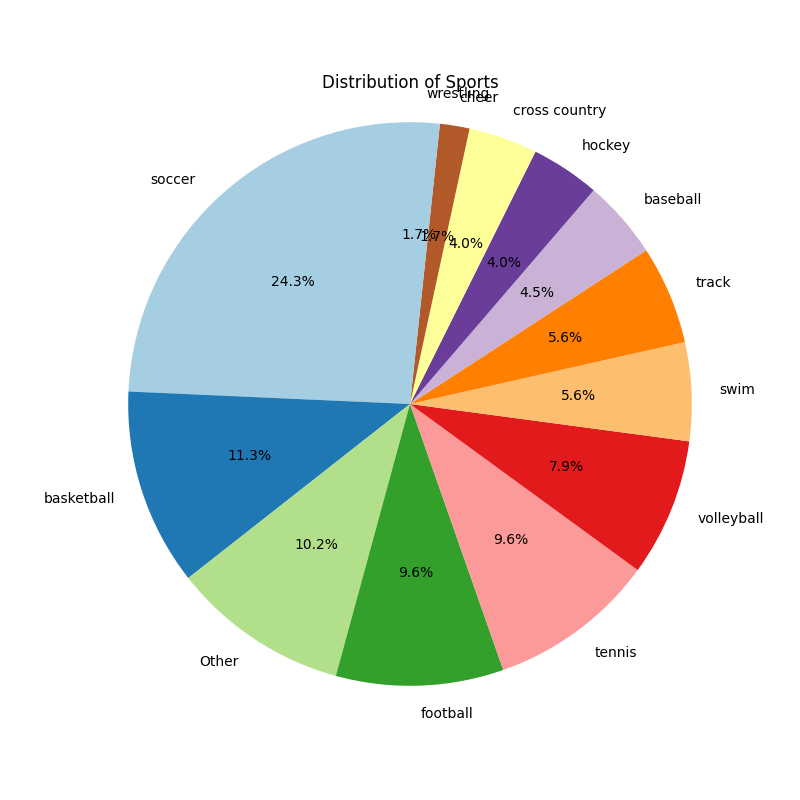
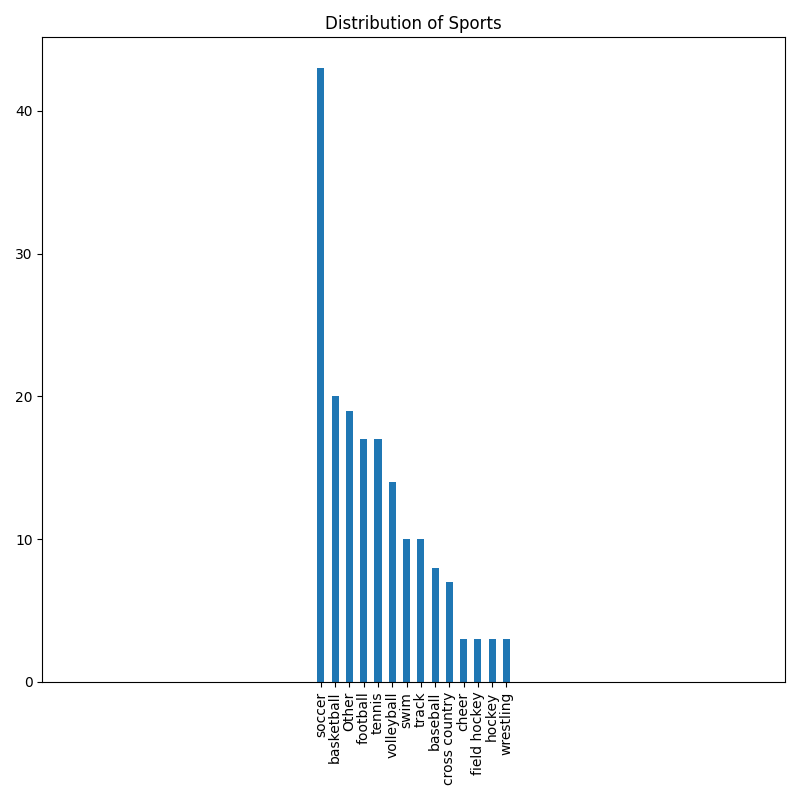
Changed Back to Pie Charts

diff --git a/SportPieChart.py b/SportPieChart.py
@@ -7,9 +7,9 @@ initial_data = pd.read_csv("./Data/Complete_data.csv")
 
 
 """
-    Merge Ice Hockey & Hockey
-    Leave rest unmerged
-    Barchart instead of pie chart
+    Merge Ice Hockey & Hockey #DONE
+    Leave rest unmerged #DONE
+    Barchart instead of pie chart 
     Clustering based on attention and sleep speartely
     summing together 
 """
@@ -34,6 +34,7 @@ def set_regex(regex, set_value, element):
 
 sports = sports.apply(lambda x: set_regex(".*cross.*country.*", "cross country", x))
 #sports = sports.apply(lambda x: set_regex(".*hockey.*", "hockey", x))
+sports = sports.apply(lambda x: set_regex("ice hockey", "hockey", x))
 sports = sports.apply(lambda x: set_regex(".*track.*", "track", x))
 sports = sports.apply(lambda x: set_regex(".*cheer.*", "cheer", x))
 sports = sports.apply(lambda x: set_regex(".*footbal.*", "football", x))
@@ -49,18 +50,18 @@ sport_counts = sports.value_counts()
 small_sports = sport_counts[sport_counts < 3].index
 
 # Merge those sports into 'Other'
-sports = sports.apply(lambda x: "Other" if x in small_sports else x)
+#sports = sports.apply(lambda x: "Other" if x in small_sports else x)
 
 sport_counts = sports.value_counts()
 
 # Plotting the Pie Chart
-plt.figure(figsize=(8, 8))  # Set the figure size
-plt.pie(sport_counts, labels=sport_counts.index, autopct='%1.1f%%', startangle=90, colors=plt.cm.Paired.colors)
+sport_counts.plot(kind='bar')  # Add a border to bars
 
-# Make the chart look better
-plt.title('Distribution of Sports')  # Add a title
-plt.axis('equal')  # Ensure the pie chart is a circle
+plt.title('Distribution of Sports', fontsize=15)  # More prominent title
+plt.xlabel('Sports', fontsize=12)  # X-axis label
+plt.ylabel('Number of Participants', fontsize=12)  # Y-axis label
+plt.xticks(rotation=45, ha='right')  # Rotate x-axis labels for readability
+plt.tight_layout()  # Adjust layout to prevent cutting off labels
 
-# Show the chart
-#plt.show()
-plt.savefig("../graphs/Distibution_Of_sports_Being_Played")
+plt.show()
+plt.savefig("./graphs/Distribution_Of_Sports.png", dpi=300)  # Higher resolution

diff --git a/ConcussionPieChart.py b/ConcussionPieChart.py
@@ -3,7 +3,7 @@ import pandas as pd
 import json
 import regex as re
 
-initial_data = pd.read_csv("../Data/CompleteData.csv")
+initial_data = pd.read_csv("./Data/CompleteData.csv")
 
 
 
@@ -38,7 +38,8 @@ def set_regex(regex, set_value, element):
 
 
 sports = sports.apply(lambda x: set_regex(".*cross.*country.*", "cross country", x))
-sports = sports.apply(lambda x: set_regex(".*hockey.*", "hockey", x))
+#sports = sports.apply(lambda x: set_regex(".*hockey.*", "hockey", x))
+sports = sports.apply(lambda x: set_regex("ice hockey", "hockey", x))
 sports = sports.apply(lambda x: set_regex(".*track.*", "track", x))
 sports = sports.apply(lambda x: set_regex(".*cheer.*", "cheer", x))
 sports = sports.apply(lambda x: set_regex(".*footbal.*", "football", x))
@@ -55,20 +56,20 @@ sport_counts = sports.value_counts()
 small_sports = sport_counts[sport_counts < 2].index
 
 # Merge those sports into 'Other'
-sports = sports.apply(lambda x: "Other" if x in small_sports else x)
+#sports = sports.apply(lambda x: "Other" if x in small_sports else x)
 
 sport_counts = sports.value_counts()
 
 
 
 # Plotting the Pie Chart
-plt.figure(figsize=(8, 8))  # Set the figure size
-plt.pie(sport_counts, labels=sport_counts.index, autopct='%1.1f%%', startangle=90, colors=plt.cm.Paired.colors)
+sport_counts.plot(kind='bar')  # Add a border to bars
 
-# Make the chart look better
-plt.title('Distribution of Concussions')  # Add a title
-plt.axis('equal')  # Ensure the pie chart is a circle
+plt.title('Distribution of Concussions', fontsize=15)  # More prominent title
+plt.xlabel('Sport', fontsize=12)  # X-axis label
+plt.ylabel('Number of Concussions', fontsize=12)  # Y-axis label
+plt.xticks(rotation=45, ha='right')  # Rotate x-axis labels for readability
+plt.tight_layout()  # Adjust layout to prevent cutting off labels
 
-# Show the chart
-#plt.show()
-plt.savefig("../graphs/ConcussionPieChart")
+plt.show()
+plt.savefig("./graphs/Distribution_Of_Sports.png", dpi=300)  # Higher resolution
